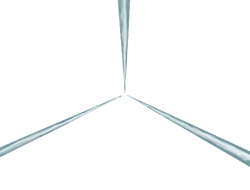
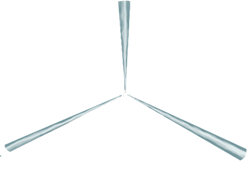
Update card art

diff --git a/src/main/java/potionbrewer/cards/Collect.java b/src/main/java/potionbrewer/cards/Collect.java
@@ -36,7 +36,7 @@ public class Collect extends CustomCard {
 
     public static final TutorialStrings TUTORIAL_STRINGS = CardCrawlGame.languagePack.getTutorialString(REAGENTS);
 
-    public static final String IMG = makeCardPath("ReagentCard.png");
+    public static final String IMG = makeCardPath("Collect.png");
 
     private static final CardRarity RARITY = CardRarity.BASIC;
     private static final CardTarget TARGET = CardTarget.ENEMY;
